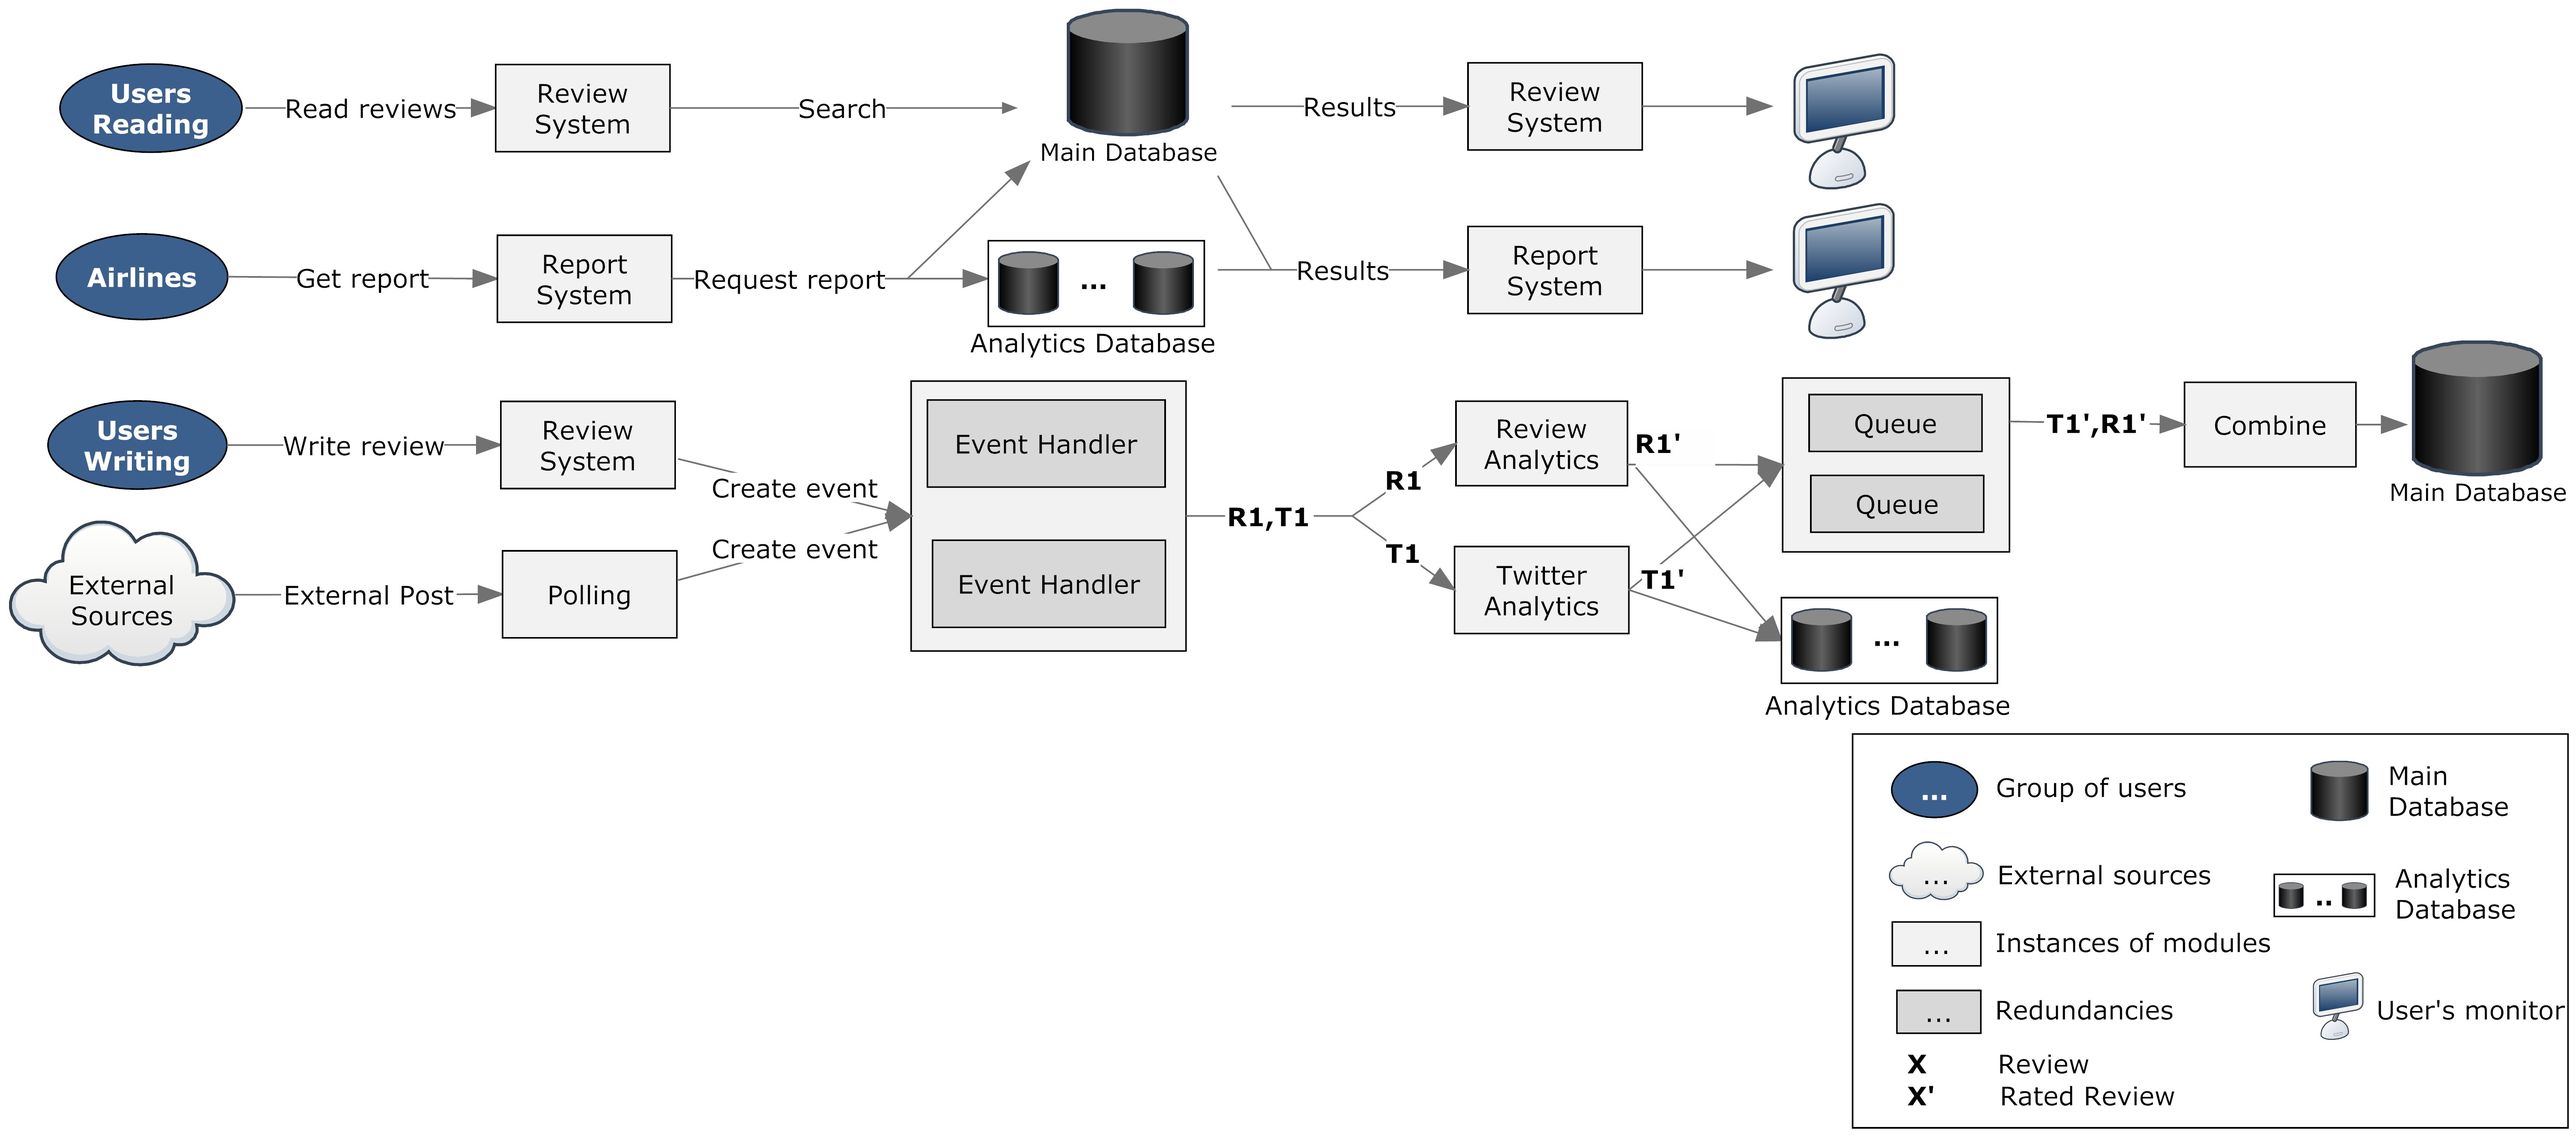
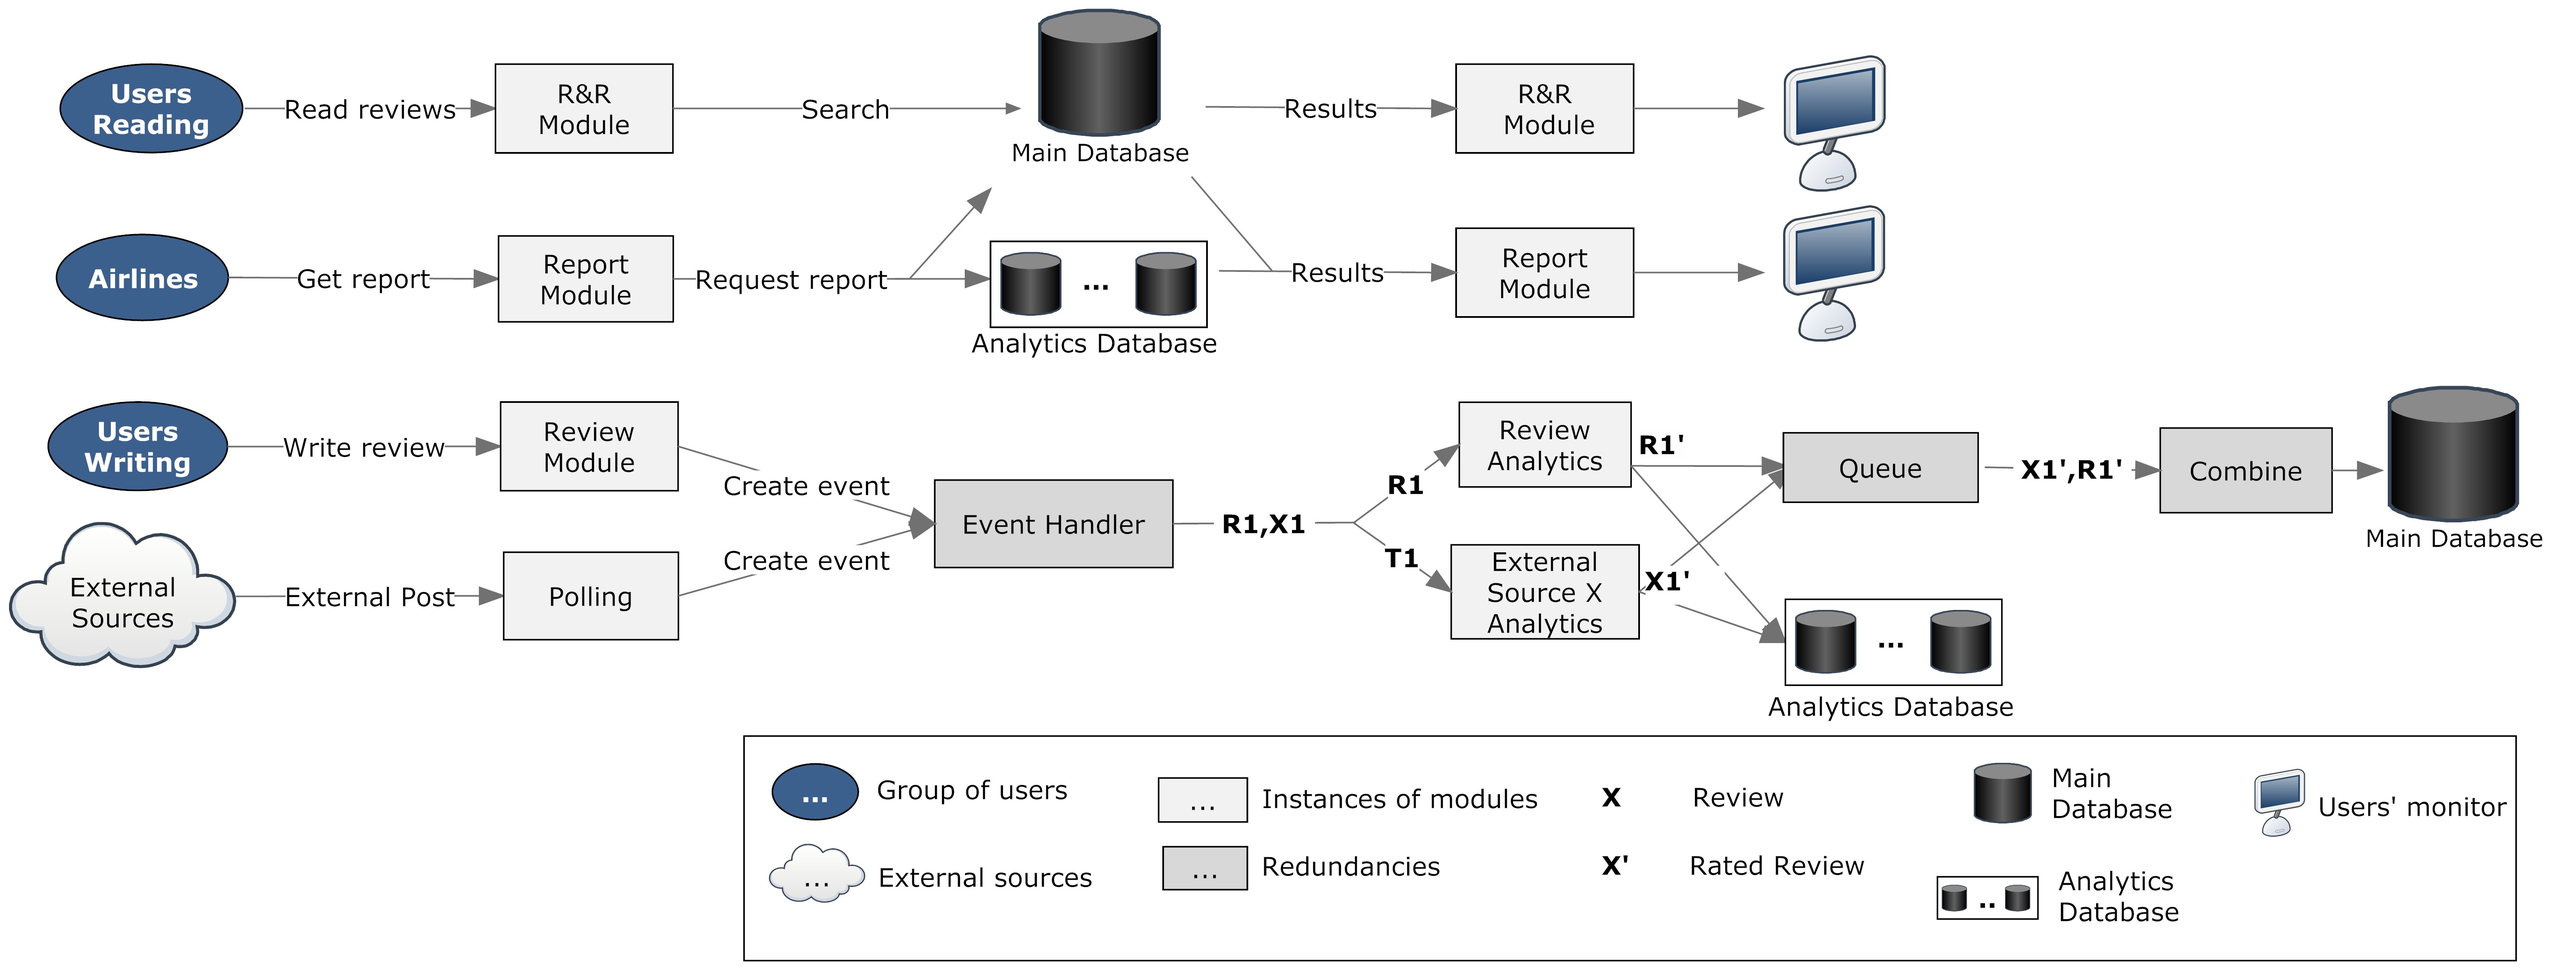
concurrency viewpoint and rational

diff --git a/Assignment 4/Concurrency.tex b/Assignment 4/Concurrency.tex
@@ -1,3 +1,13 @@
+% \input{DataFlow}
+
+\subsection{Data Flow Viewpoint}
+
+\begin{itemize}
+\item Related stakeholders: KLM, Initiator
+\item Related Concerns: Availability, Performance, GreenIT
+\item Related design decisions: Redudancy; Concurrency
+\end{itemize}
+
 \newpage
 \begin{landscape}
 \begin{figure}
@@ -6,3 +16,15 @@
 \label{fig:concurrency}
 \end{figure}
 \end{landscape}
+
+The concurrency viewpoint (see fig.~\ref{fig:concurrency}) illustrates how the system behaves when different users perform different operations on it.the flow of data within the back-end of the system. In this figure the registered users or guests that search or read reviews are represented by the Users Reading element and the registered users that write a  review are represented as Users Writing. This separation is necessary because these operations are handled differently by the system since the writing operation changes the state of the database while the reading operation does not. The airlines are represented only by one entity because there is no need to separate the search or the statistics results since they are both reading operations and do not cause any change on the database's state. Finally, to represent the external sources we do not need to separate them since they are handled the same way by the system.
+
+In the related design decisions it is discussed that redundancy will increase availability by eliminating single points of failure. Although it may decrease performance, it makes FlyWithUs a more robust system. 
+
+\subsubsection{Instances of Modules}
+
+A module's instances are separate processes that perform the same operations. For example, different instances of R\&R module respond to the users' requests, these instances can be different processes run on web servers. Additionally, instances of the modules review analytics and an external source analytics (eg. Facebook, Twitter, trip Advisor etc.) can run concurrently as different threads since the process of each post is dealt independently.
+
+\subsubsection{Redundancies}
+
+This viewpoint also puts forth single points of failure such as the event handler, the queue and the combine module. If any of these modules fails the system will have to revert to a previous state losing some the data collected. To avoid that, the system can have redundant modules that perform the same functionality and are synchronized, if any of them fails the others can continue from the point of failure without losing any data. Although it will increase the cost and will have negative impact on green IT, the stakeholders insisted on not losing any data and make the system as available as possible.
